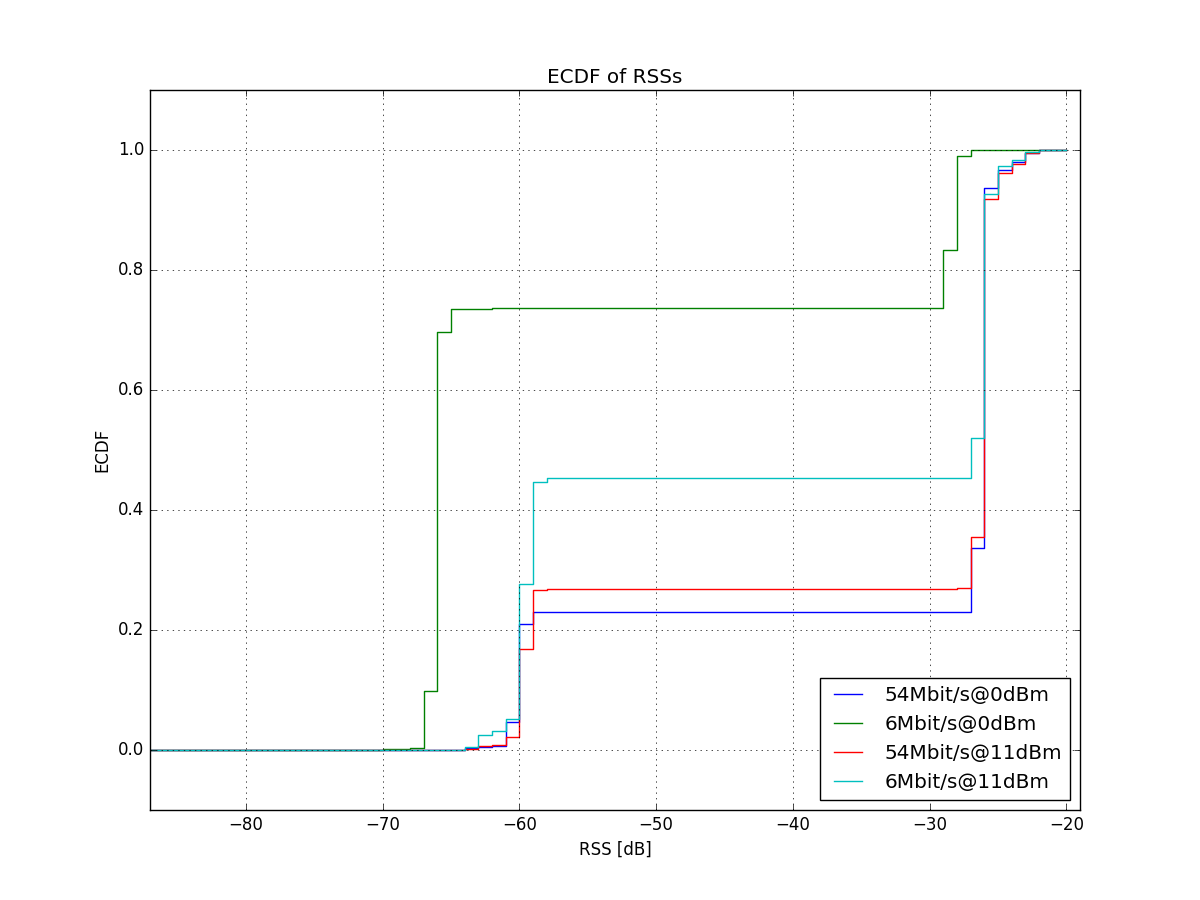
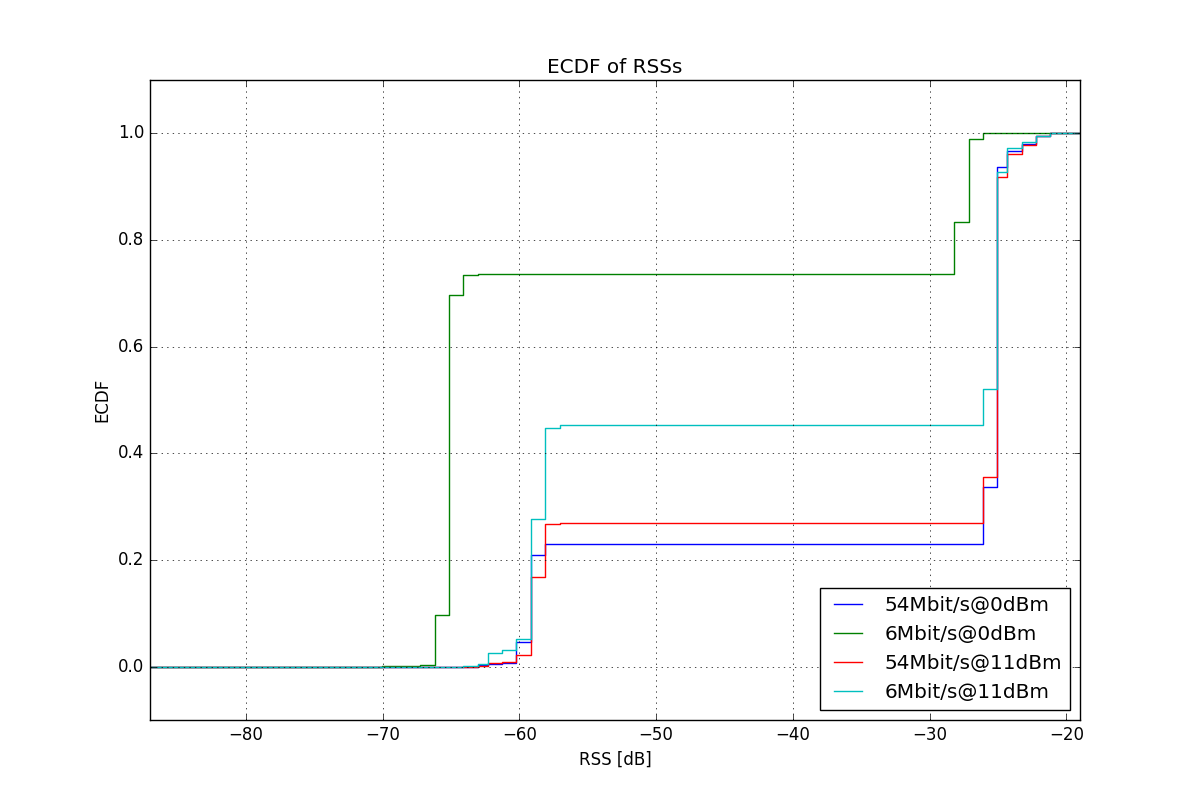
Really final fixes for q3b script, final plots

diff --git a/group06_hw04/q3/q3b.py b/group06_hw04/q3/q3b.py
@@ -2,6 +2,7 @@
 
 import re
 import subprocess as sub
+import numpy as np
 import sys, getopt
 import matplotlib.pyplot as plt
 import glob
@@ -30,7 +31,7 @@ def main(argv):
     iperf_paths = glob.glob("%s*.out"%folder)
     iperf_paths.sort()
     plot_throughput(iperf_paths)
-    
+
     tcpdump_paths = glob.glob("%s*.cap"%folder)
     tcpdump_paths.sort()
     plot_rss(tcpdump_paths)
@@ -86,7 +87,7 @@ def plot_throughput(filepaths):
         mins.append(s.min())
         maxs.append(s.max())
 
-    x_range = range( int(min(mins)), int(max(maxs))+1)
+    x_range = np.linspace(min(mins)-1.0, max(maxs)+1.0, 200)
 
     # Plotting
 
@@ -105,7 +106,7 @@ def plot_throughput(filepaths):
     plt.title("ECDF of throughput")
     plt.ylabel("ECDF")
     plt.xlabel("Throughput [Mbit/sec]")
-    plt.legend(loc=4)
+    plt.legend(loc=2)
     plt.grid(True)
     plt.savefig("throughput_ECDF.png")
     plt.close()
@@ -141,7 +142,7 @@ def plot_rss(filepaths):
         for l in lines:
             try:
                 rssdb = next(x for x in l.split(" ") if "dB" in x)  # this finds and returns the first dB value
-                rss = int(rssdb[:len(rssdb)-2])                     # this parses the "dB" out and leaves the int
+                rss = float(rssdb[:len(rssdb)-2])                     # this parses the "dB" out and leaves the int
                 rssis.append(rss)
             except StopIteration:
                 None
@@ -151,11 +152,11 @@ def plot_rss(filepaths):
         mins.append(s.min())
         maxs.append(s.max())
 
-    x_range = range( min(mins), max(maxs))
+        x_range = np.linspace(min(mins) - 1.0, max(maxs) + 1.0, 200)
 
     # Plotting
 
-    plt.figure(figsize=(12, 9))
+    plt.figure(figsize=(12, 8))
 
     for s in scenarios:
         box_datas.append(s.data)
